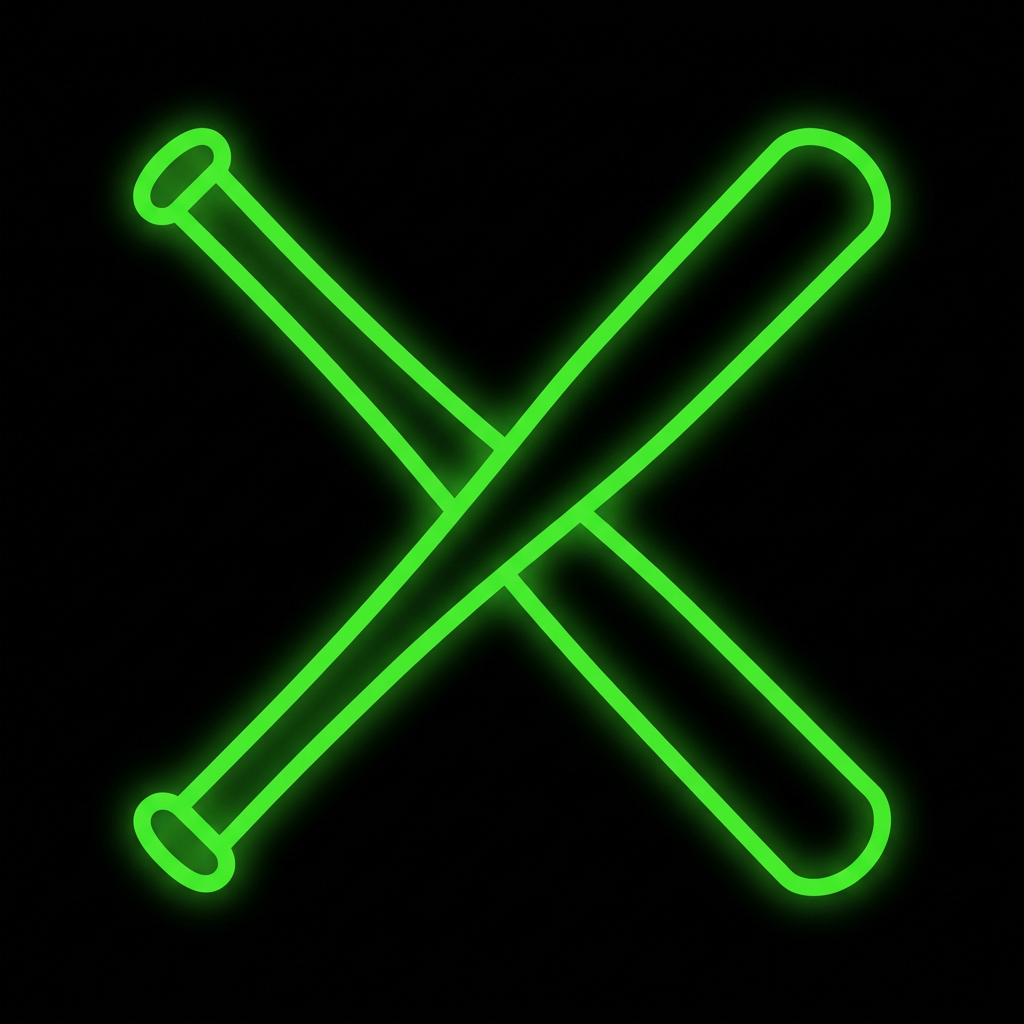
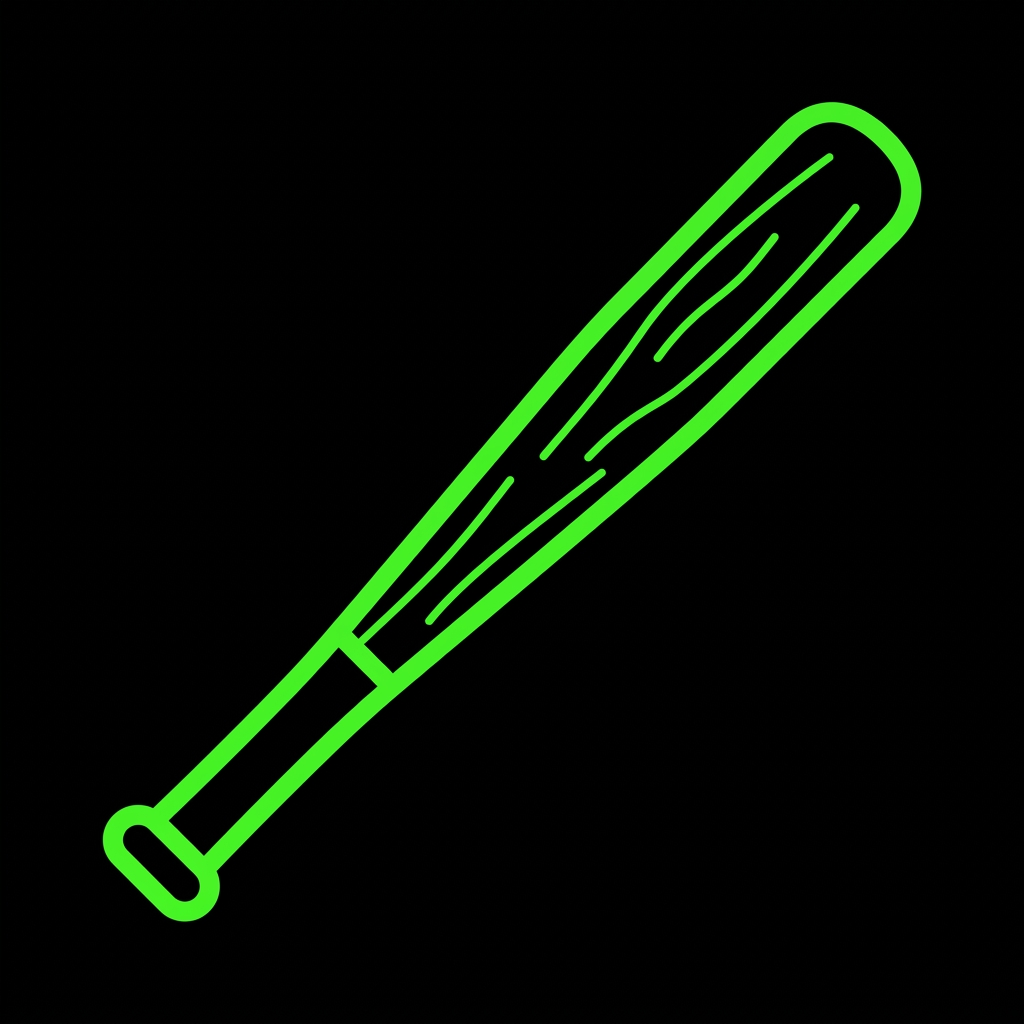
Rohr- und Jagdwaffen bebildert, Bildpruefung bricht jetzt hart ab (40 von 126)
Zehn Motive: knuckles und baseball_bat neu (waren Ausschuss), dazu
pipe_pistol, pipe_rifle, pipe_revolver, hunting_rifle, sniper_rifle,
alien_blaster, deathclaw_gauntlet.

pipe_sniper ist wieder raus: das Rohbild kam als gefuellte Grafik auf
Weiss statt als gruene Linie auf Schwarz - 83,6 % weisse Pixel. Der
Pruefskript hatte es gemeldet, die Aufbereitung lief aber trotzdem
durch und haette ein weisses Rechteck ins Inventar gelegt. icon-check.mjs
beendet sich jetzt mit Code 1, npm run icons bricht damit ab. Das Motiv
kommt in der naechsten Runde.

Damit sind alle Fernkampf- und Nahkampfwaffen bebildert bis auf
pipe_sniper. 40 von 126 Items, 185 kB.

135 Tests gruen.

Changed region(s): [[0.0938, 0.0938, 0.9062, 0.9062]]

diff --git a/PipBoy3000/app.js b/PipBoy3000/app.js
@@ -439,6 +439,7 @@
   // src/data/data_item_icons.js
   if (typeof window.GameData === "undefined") window.GameData = {};
   window.GameData.itemBilder = [
+    "alien_blaster",
     "ammo_10mm",
     "ammo_micro",
     "ammo_shell",
@@ -448,6 +449,8 @@
     "bat_spiked",
     "buffout",
     "combat_shotgun",
+    "deathclaw_gauntlet",
+    "hunting_rifle",
     "jet",
     "knife",
     "knuckles",
@@ -457,6 +460,9 @@
     "minigun",
     "nuka_cola",
     "nuka_quantum",
+    "pipe_pistol",
+    "pipe_revolver",
+    "pipe_rifle",
     "pipe_wrench",
     "pistol_10mm",
     "plasma_pistol",
@@ -469,6 +475,7 @@
     "rolling_pin",
     "shotgun",
     "smg",
+    "sniper_rifle",
     "stealth_boy",
     "stimpack",
     "switchblade"

diff --git a/PipBoy3000/src/data/data_item_icons.js b/PipBoy3000/src/data/data_item_icons.js
@@ -11,6 +11,7 @@
 if (typeof window.GameData === 'undefined') window.GameData = {};
 
 window.GameData.itemBilder = [
+  'alien_blaster',
   'ammo_10mm',
   'ammo_micro',
   'ammo_shell',
@@ -20,6 +21,8 @@ window.GameData.itemBilder = [
   'bat_spiked',
   'buffout',
   'combat_shotgun',
+  'deathclaw_gauntlet',
+  'hunting_rifle',
   'jet',
   'knife',
   'knuckles',
@@ -29,6 +32,9 @@ window.GameData.itemBilder = [
   'minigun',
   'nuka_cola',
   'nuka_quantum',
+  'pipe_pistol',
+  'pipe_revolver',
+  'pipe_rifle',
   'pipe_wrench',
   'pistol_10mm',
   'plasma_pistol',
@@ -41,6 +47,7 @@ window.GameData.itemBilder = [
   'rolling_pin',
   'shotgun',
   'smg',
+  'sniper_rifle',
   'stealth_boy',
   'stimpack',
   'switchblade'

diff --git a/PipBoy3000/docs/ITEMBILDER.md b/PipBoy3000/docs/ITEMBILDER.md
@@ -23,12 +23,16 @@ Waffen: `pistol_10mm` `revolver_44` `shotgun` `combat_shotgun` `smg`
 `assault_rifle` `minigun` `laser_pistol` `laser_rifle` `plasma_pistol` `plasma_rifle`
 Rüstung: `power_armor`
 
-## Kaputte Rohbilder
+## Bildfehler-Prüfung
 
-`knuckles` — weisse Stoerung in allen vier Ecken (9 % der Flaeche). Neu zeichnen.
-`baseball_bat` — zeigt zwei gekreuzte Schlaeger statt einem. Neu zeichnen.
+`node tools/icon-check.mjs` (laeuft bei `npm run icons` zuerst) meldet Rohbilder
+mit mehr als 0,5 % weissen Pixeln und bricht dann ab.
 
-## Block 3 — Restliche Waffen (23)
+Bisher gefunden: `knuckles` (weisse Stoerung in allen vier Ecken) und
+`pipe_sniper` (gefuellte Grafik auf Weiss statt Linien auf Schwarz). Beide neu
+gezeichnet, die Pruefung greift jetzt vor der Aufbereitung.
+
+## Erledigt in Block 3 — Restliche Waffen (23)
 
 Schusswaffen:
 
@@ -63,7 +67,7 @@ Nahkampf:
 | `power_fist` | angetriebene Powerfaust mit Hydraulik |
 | `deathclaw_gauntlet` | Handschuh aus Todeskrallen-Klauen |
 
-## Block 4 — Rüstung (25)
+## Block 4 — Rüstung (25)  ← naechster Block
 
 | Stufe | ids |
 |---|---|
